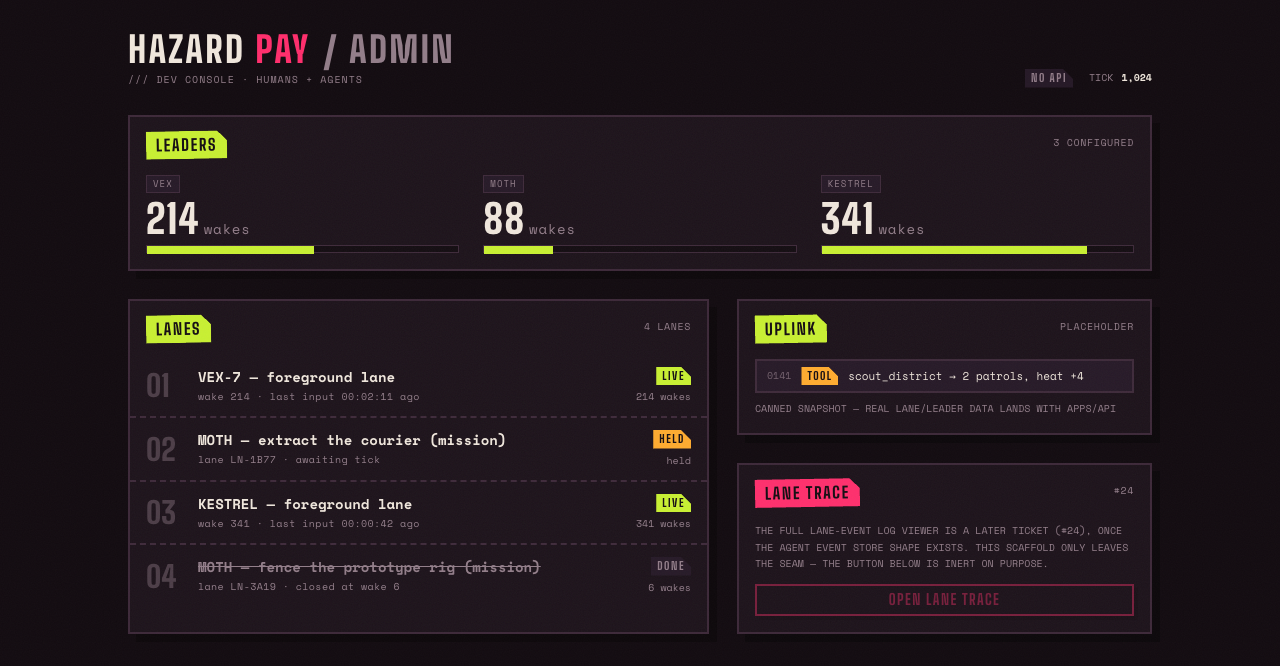
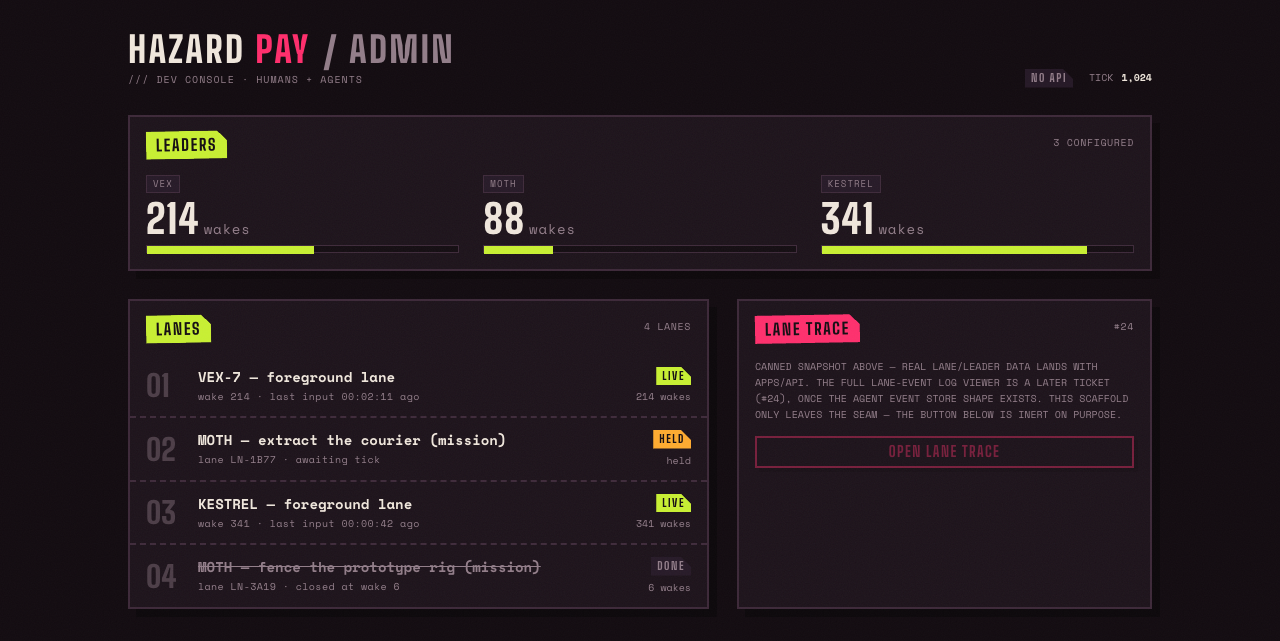
refactor(admin): tighten hello screen scope and drop banned term
Code review found the Uplink TraceChip previewing #24 beyond a plain
seam, and a banned session-log term in AGENTS.md. Folds the honest
data note into the single lane trace panel and fixes the wording.

Refs: #17

diff --git a/apps/admin/src/routes/index.tsx b/apps/admin/src/routes/index.tsx
@@ -8,7 +8,6 @@ import {
   Panel,
   StatReadout,
   StatusChip,
-  TraceChip,
 } from "@hazard-pay/ui";
 
 export const Route = createFileRoute("/")({
@@ -132,29 +131,20 @@ function AdminScreen() {
             </ListRowGroup>
           </Panel>
 
-          <div className="flex flex-col gap-7">
-            <Panel title="Uplink" meta="placeholder">
-              <div className="flex flex-col gap-2">
-                <TraceChip seq="0141" kind="tool_result" summary="scout_district → 2 patrols, heat +4" />
-                <p className="font-data text-[10px] leading-relaxed text-ink-dim uppercase">
-                  canned snapshot — real lane/leader data lands with apps/api
-                </p>
-              </div>
-            </Panel>
-
-            <Panel title="Lane trace" meta="#24" tone="magenta">
-              <div className="flex flex-col gap-3">
-                <p className="font-data text-[10px] leading-relaxed text-ink-dim uppercase">
-                  the full lane-event log viewer is a later ticket (#24), once
-                  the agent event store shape exists. this scaffold only
-                  leaves the seam — the button below is inert on purpose.
-                </p>
-                <Button variant="ghost" size="sm" disabled title="Lands with #24">
-                  Open lane trace
-                </Button>
-              </div>
-            </Panel>
-          </div>
+          <Panel title="Lane trace" meta="#24" tone="magenta">
+            <div className="flex flex-col gap-3">
+              <p className="font-data text-[10px] leading-relaxed text-ink-dim uppercase">
+                canned snapshot above — real lane/leader data lands with
+                apps/api. the full lane-event log viewer is a later ticket
+                (#24), once the agent event store shape exists. this
+                scaffold only leaves the seam — the button below is inert
+                on purpose.
+              </p>
+              <Button variant="ghost" size="sm" disabled title="Lands with #24">
+                Open lane trace
+              </Button>
+            </div>
+          </Panel>
         </div>
       </div>
     </main>

diff --git a/apps/admin/AGENTS.md b/apps/admin/AGENTS.md
@@ -38,10 +38,9 @@ against.
 placeholder lanes and leaders through a real `useQuery` (canned data, same
 pattern as webapp's overworld screen — see its AGENTS.md), clearly labeled
 as canned, plus an inert "Open lane trace" button pointing at #24. **Do not
-wire that button up or build a trace view here** — the session-log/lane-
-trace viewer is scoped to #24 and depends on the agent event store shape,
-which doesn't exist yet. This scaffold's job is the shell and the seam,
-nothing more.
+wire that button up or build a trace view here** — the lane-trace viewer
+is scoped to #24 and depends on the agent event store shape, which doesn't
+exist yet. This scaffold's job is the shell and the seam, nothing more.
 
 ## Query conventions
 